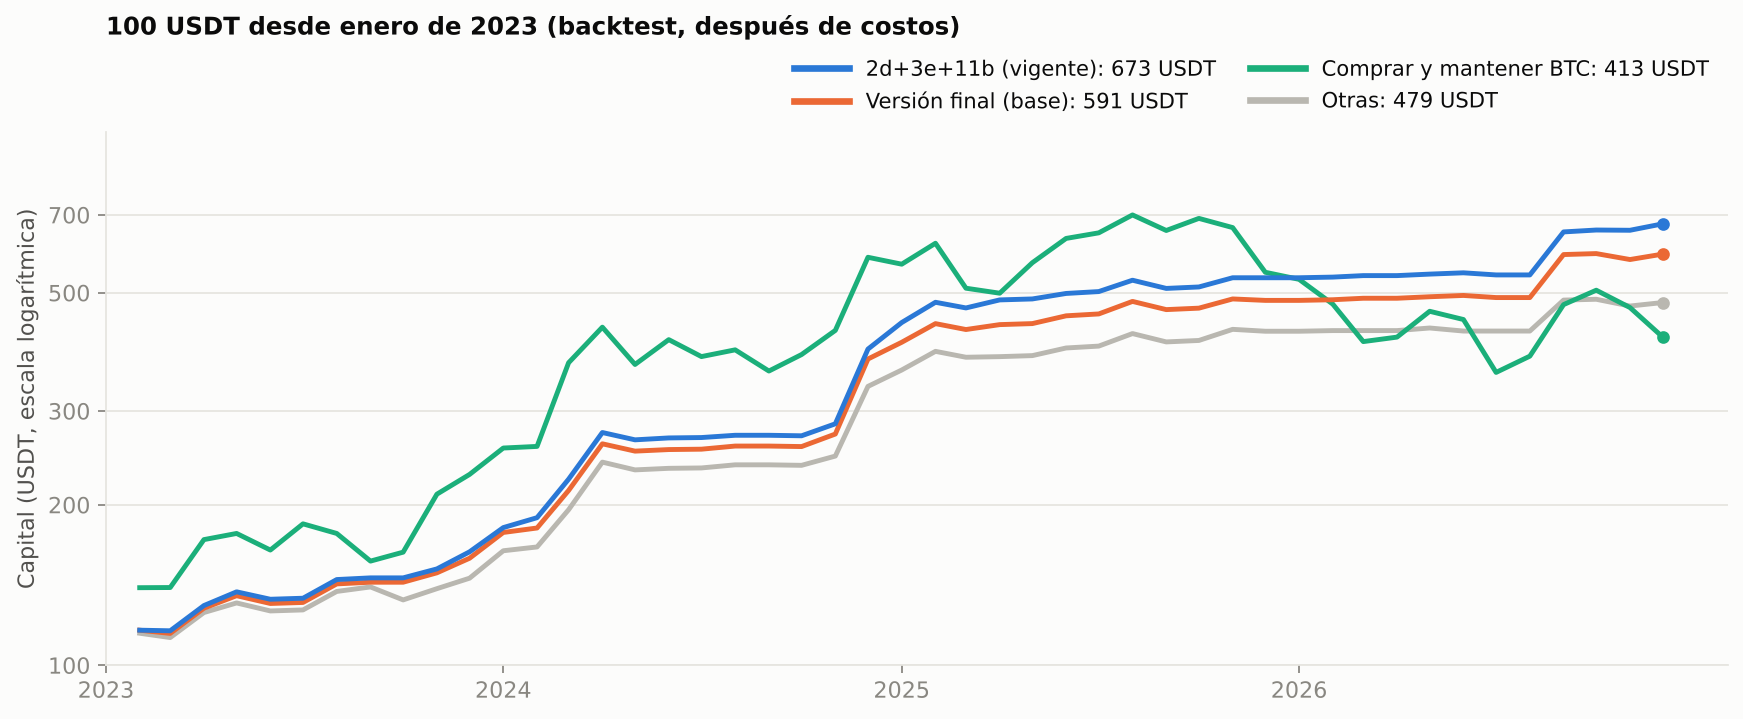
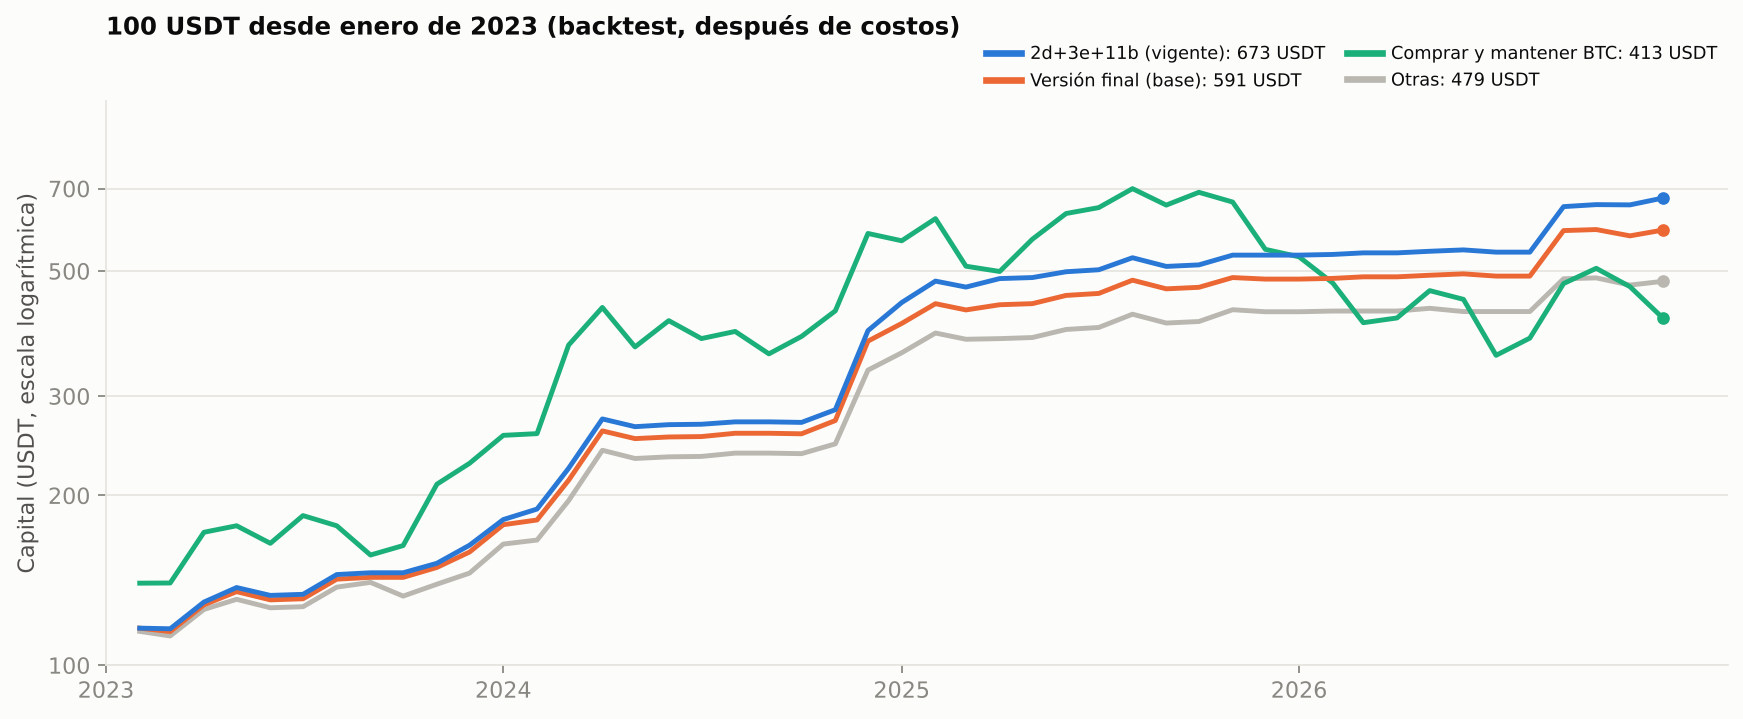
Reduce legend font size in capital chart

Changed region(s): [[0.0, 0.2448, 0.9914, 0.8873], [0.4337, 0.0612, 0.9914, 0.153]]

diff --git a/binance-research/multitf/graficos.py b/binance-research/multitf/graficos.py
@@ -162,9 +162,9 @@ def capital(d):
     ax.set_xlim(x[0], x[-1] + pd.Timedelta(days=60))
     ax.set_xticks(pd.to_datetime([f"{a}-01-01" for a in (2023, 2024, 2025, 2026)]), ["2023", "2024", "2025", "2026"])
     ax.set_ylabel("Capital (USDT, escala logarítmica)")
-    leg = ax.legend(handles=handles, loc="lower right", bbox_to_anchor=(1.0, 1.0), ncol=2, frameon=False, fontsize=9.5,
-                    handlelength=2.6, columnspacing=1.6)
-    ax.set_title("100 USDT desde enero de 2023 (backtest, después de costos)", pad=44)
+    leg = ax.legend(handles=handles, loc="lower right", bbox_to_anchor=(1.0, 1.0), ncol=2, frameon=False, fontsize=8,
+                    handlelength=2.0, handletextpad=0.5, columnspacing=1.2, borderaxespad=0.2)
+    ax.set_title("100 USDT desde enero de 2023 (backtest, después de costos)", pad=30)
     fig.tight_layout()
     fig.savefig(os.path.join(IMG, "mt-capital.png"), dpi=160, bbox_inches="tight")
     dd = 100 * (eq / eq.cummax() - 1)
